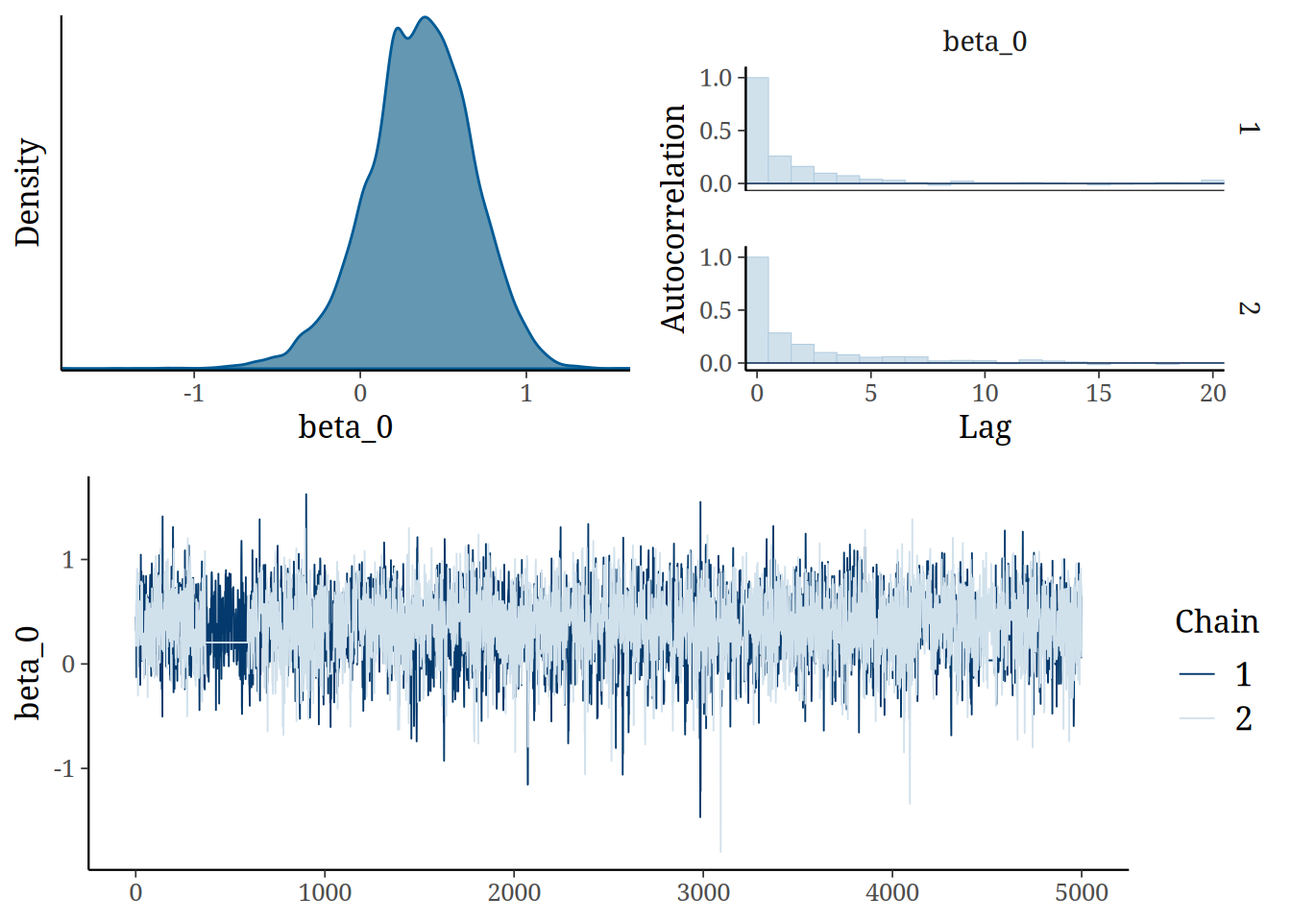
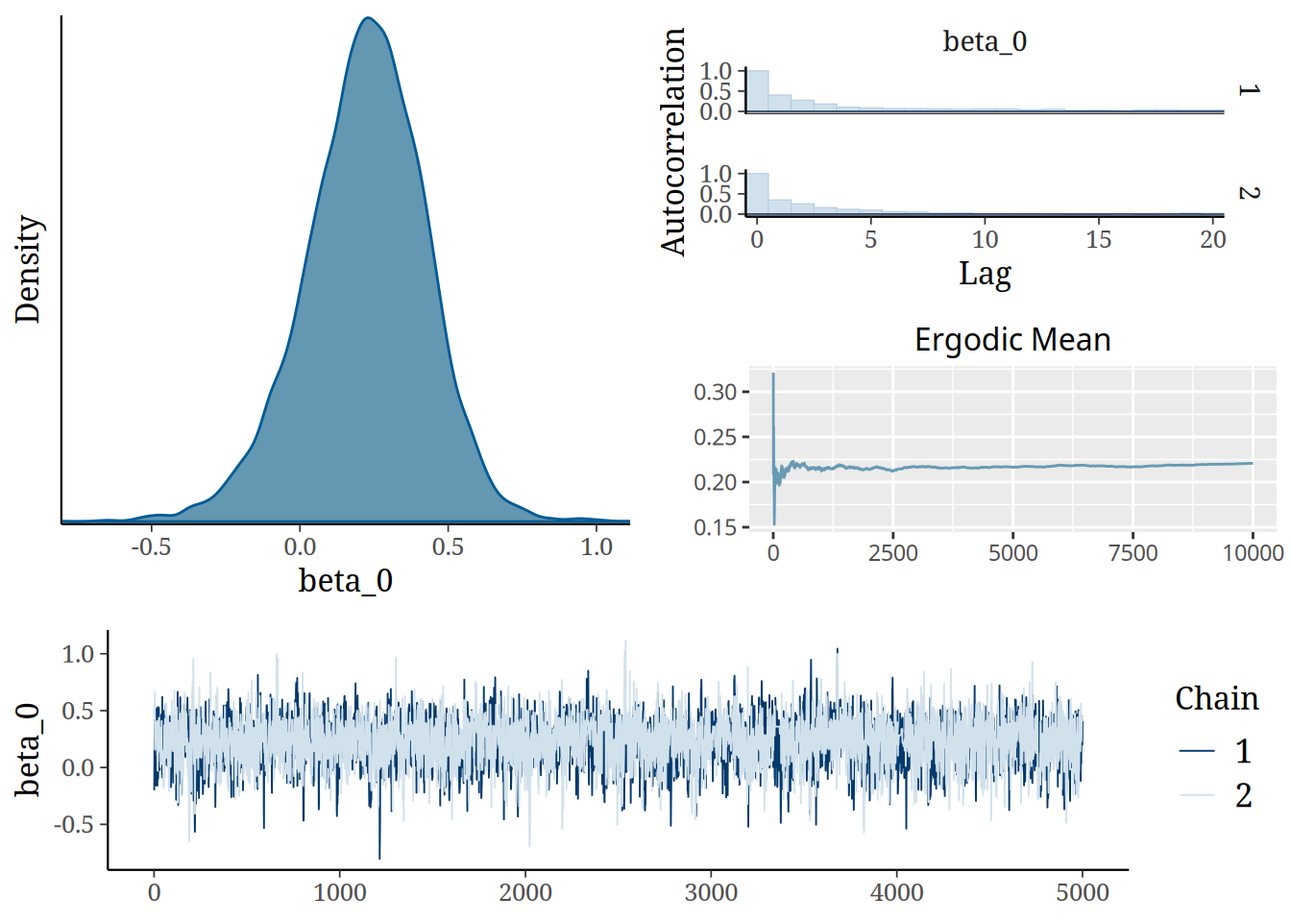
feat: visualizacao de predicao para o campeonato mineiro

diff --git a/models/campeonato_mineiro.html b/models/campeonato_mineiro.html
@@ -95,114 +95,63 @@ pre > code.sourceCode > span > a:first-child::before { text-decoration: underlin
 </header>
 
 <section id="registrando-os-times" class="level2">
-<h2 class="anchored" data-anchor-id="registrando-os-times">Registrando os Times</h2>
+<h2 class="anchored" data-anchor-id="registrando-os-times">Registrando os times</h2>
 <div class="cell">
-<div class="sourceCode cell-code" id="cb1"><pre class="sourceCode r code-with-copy"><code class="sourceCode r"><span id="cb1-1"><a href="#cb1-1" aria-hidden="true" tabindex="-1"></a>team_names <span class="ot">&lt;-</span> <span class="fu">c</span>(<span class="st">"Tombense"</span>, <span class="st">"Uberlândia"</span>, <span class="st">"Villa Nova"</span>, <span class="st">"Cruzeiro"</span>,</span>
-<span id="cb1-2"><a href="#cb1-2" aria-hidden="true" tabindex="-1"></a>                <span class="st">"Athletic"</span>, <span class="st">"Ipatinga"</span>, <span class="st">"Democrata"</span>, <span class="st">"Itabirito"</span>,</span>
+<div class="sourceCode cell-code" id="cb1"><pre class="sourceCode r code-with-copy"><code class="sourceCode r"><span id="cb1-1"><a href="#cb1-1" aria-hidden="true" tabindex="-1"></a>team_names <span class="ot">&lt;-</span> <span class="fu">c</span>(<span class="st">"Tombense"</span>, <span class="st">"Uberlândia"</span>, <span class="st">"Villa Nova-MG"</span>, <span class="st">"Cruzeiro"</span>,</span>
+<span id="cb1-2"><a href="#cb1-2" aria-hidden="true" tabindex="-1"></a>                <span class="st">"Athletic Club"</span>, <span class="st">"Ipatinga"</span>, <span class="st">"Democrata GV"</span>, <span class="st">"Itabirito"</span>,</span>
 <span id="cb1-3"><a href="#cb1-3" aria-hidden="true" tabindex="-1"></a>                <span class="st">"Patrocinense"</span>, <span class="st">"Atlético-MG"</span>, <span class="st">"América-MG"</span>, <span class="st">"Pouso Alegre"</span>)</span></code><button title="Copy to Clipboard" class="code-copy-button"><i class="bi"></i></button></pre></div>
 </div>
 </section>
-<section id="tabela" class="level2">
-<h2 class="anchored" data-anchor-id="tabela">Tabela</h2>
-<div class="tabset-margin-container"></div><div class="panel-tabset">
-<ul class="nav nav-tabs" role="tablist"><li class="nav-item" role="presentation"><a class="nav-link active" id="tabset-1-1-tab" data-bs-toggle="tab" data-bs-target="#tabset-1-1" role="tab" aria-controls="tabset-1-1" aria-selected="true" href="">Rodada 1</a></li><li class="nav-item" role="presentation"><a class="nav-link" id="tabset-1-2-tab" data-bs-toggle="tab" data-bs-target="#tabset-1-2" role="tab" aria-controls="tabset-1-2" aria-selected="false" href="">Rodada 2</a></li><li class="nav-item" role="presentation"><a class="nav-link" id="tabset-1-3-tab" data-bs-toggle="tab" data-bs-target="#tabset-1-3" role="tab" aria-controls="tabset-1-3" aria-selected="false" href="">Rodada 3</a></li><li class="nav-item" role="presentation"><a class="nav-link" id="tabset-1-4-tab" data-bs-toggle="tab" data-bs-target="#tabset-1-4" role="tab" aria-controls="tabset-1-4" aria-selected="false" href="">Rodada 4</a></li><li class="nav-item" role="presentation"><a class="nav-link" id="tabset-1-5-tab" data-bs-toggle="tab" data-bs-target="#tabset-1-5" role="tab" aria-controls="tabset-1-5" aria-selected="false" href="">Rodada 5</a></li><li class="nav-item" role="presentation"><a class="nav-link" id="tabset-1-6-tab" data-bs-toggle="tab" data-bs-target="#tabset-1-6" role="tab" aria-controls="tabset-1-6" aria-selected="false" href="">Rodada 6</a></li><li class="nav-item" role="presentation"><a class="nav-link" id="tabset-1-7-tab" data-bs-toggle="tab" data-bs-target="#tabset-1-7" role="tab" aria-controls="tabset-1-7" aria-selected="false" href="">Rodada 7</a></li><li class="nav-item" role="presentation"><a class="nav-link" id="tabset-1-8-tab" data-bs-toggle="tab" data-bs-target="#tabset-1-8" role="tab" aria-controls="tabset-1-8" aria-selected="false" href="">Rodada 8</a></li></ul>
-<div class="tab-content">
-<div id="tabset-1-1" class="tab-pane active" role="tabpanel" aria-labelledby="tabset-1-1-tab">
-<p>Tombense 2 x 2 Uberlândia</p>
-<p>Villa Nova 1 x 2 Cruzeiro</p>
-<p>Athletic 2 x 1 Ipatinga</p>
-<p>Democrata 1 x 3 Itabirito</p>
-<p>Patrocinense 2 x 1 Atlético-MG</p>
-<p>América-MG 6 x 0 Pouso Alegre</p>
-</div>
-<div id="tabset-1-2" class="tab-pane" role="tabpanel" aria-labelledby="tabset-1-2-tab">
-<p>Cruzeiro 1 x 1 Athletic</p>
-<p>Itabirito 0 x 2 Villa Nova</p>
-<p>Atlético-MG 4 x 0 Democrata</p>
-<p>Pouso Alegre 1 x 2 Tombense</p>
-<p>Ipatinga 1 x 6 América-MG</p>
-<p>Uberlândia 1 x 1 Patrocinense</p>
-</div>
-<div id="tabset-1-3" class="tab-pane" role="tabpanel" aria-labelledby="tabset-1-3-tab">
-<p>Itabirito NA x NA América-MG</p>
-<p>Ipatinga NA x NA Pouso Alegre</p>
-<p>Uberlândia NA x NA Democrata</p>
-<p>Tombense NA x NA Athletic</p>
-<p>Atlético-MG NA x NA Cruzeiro</p>
-<p>Patrocinense NA x NA Villa Nova</p>
-</div>
-<div id="tabset-1-4" class="tab-pane" role="tabpanel" aria-labelledby="tabset-1-4-tab">
-<p>Pouso Alegre NA x NA Itabirito</p>
-<p>Atlético-MG NA x NA Uberlândia</p>
-<p>Democrata NA x NA Tombense</p>
-<p>Villa Nova NA x NA Ipatinga</p>
-<p>Athletic NA x NA Atlético-MG</p>
-<p>Cruzeiro NA x NA Patrocinense</p>
-</div>
-<div id="tabset-1-5" class="tab-pane" role="tabpanel" aria-labelledby="tabset-1-5-tab">
-<p>Pouso Alegre NA x NA Democrata</p>
-<p>Uberlândia NA x NA Itabirito</p>
-<p>Cruzeiro NA x NA América-MG</p>
-<p>Patrocinense NA x NA Ipatinga</p>
-<p>Villa Nova NA x NA Athletic</p>
-<p>Atlético-MG NA x NA Tombense</p>
-</div>
-<div id="tabset-1-6" class="tab-pane" role="tabpanel" aria-labelledby="tabset-1-6-tab">
-<p>Athletic NA x NA Pouso Alegre</p>
-<p>Democrata NA x NA Cruzeiro</p>
-<p>Ipatinga NA x NA Uberlândia</p>
-<p>América-MG NA x NA Villa Nova</p>
-<p>Itabirito NA x NA Atlético-MG</p>
-<p>Tombense NA x NA Patrocinense</p>
-</div>
-<div id="tabset-1-7" class="tab-pane" role="tabpanel" aria-labelledby="tabset-1-7-tab">
-<p>América-MG NA x NA Atlético-MG</p>
-<p>Uberlândia NA x NA Athletic</p>
-<p>Ipatinga NA x NA Democrata</p>
-<p>Itabirito NA x NA Patrocinense</p>
-<p>Villa Nova NA x NA Tombense</p>
-<p>Pouso Alegre NA x NA Cruzeiro</p>
-</div>
-<div id="tabset-1-8" class="tab-pane" role="tabpanel" aria-labelledby="tabset-1-8-tab">
-<p>Democrata NA x NA Villa Nova</p>
-<p>Cruzeiro NA x NA Uberlândia</p>
-<p>Athletic NA x NA Itabirito</p>
-<p>Tombense NA x NA América-MG</p>
-<p>Atlético-MG NA x NA Ipatinga</p>
-<p>Patrocinense NA x NA Pouso Alegre</p>
-</div>
-</div>
+<section id="importando-os-dados-das-partidas" class="level2">
+<h2 class="anchored" data-anchor-id="importando-os-dados-das-partidas">Importando os dados das partidas</h2>
+<div class="cell">
+<div class="sourceCode cell-code" id="cb2"><pre class="sourceCode r code-with-copy"><code class="sourceCode r"><span id="cb2-1"><a href="#cb2-1" aria-hidden="true" tabindex="-1"></a>games <span class="ot">&lt;-</span> <span class="fu">read.csv2</span>(<span class="st">"./camp_mineiro_2024.csv"</span>, <span class="at">sep=</span><span class="st">","</span>)</span>
+<span id="cb2-2"><a href="#cb2-2" aria-hidden="true" tabindex="-1"></a></span>
+<span id="cb2-3"><a href="#cb2-3" aria-hidden="true" tabindex="-1"></a>h <span class="ot">&lt;-</span> <span class="fu">unname</span>(<span class="fu">sapply</span>(games<span class="sc">$</span>h, <span class="cf">function</span>(x) <span class="fu">which</span>(x <span class="sc">==</span> team_names)))</span>
+<span id="cb2-4"><a href="#cb2-4" aria-hidden="true" tabindex="-1"></a>a <span class="ot">&lt;-</span> <span class="fu">unname</span>(<span class="fu">sapply</span>(games<span class="sc">$</span>a, <span class="cf">function</span>(x) <span class="fu">which</span>(x <span class="sc">==</span> team_names)))</span>
+<span id="cb2-5"><a href="#cb2-5" aria-hidden="true" tabindex="-1"></a></span>
+<span id="cb2-6"><a href="#cb2-6" aria-hidden="true" tabindex="-1"></a>games<span class="sc">$</span>h <span class="ot">&lt;-</span> h</span>
+<span id="cb2-7"><a href="#cb2-7" aria-hidden="true" tabindex="-1"></a>games<span class="sc">$</span>a <span class="ot">&lt;-</span> a</span></code><button title="Copy to Clipboard" class="code-copy-button"><i class="bi"></i></button></pre></div>
 </div>
 </section>
 <section id="ajustando-um-modelo-poisson-simples" class="level2">
 <h2 class="anchored" data-anchor-id="ajustando-um-modelo-poisson-simples">Ajustando um Modelo Poisson Simples</h2>
 <div class="cell">
-<div class="sourceCode cell-code" id="cb2"><pre class="sourceCode r code-with-copy"><code class="sourceCode r"><span id="cb2-1"><a href="#cb2-1" aria-hidden="true" tabindex="-1"></a><span class="fu">require</span>(footstan)</span></code><button title="Copy to Clipboard" class="code-copy-button"><i class="bi"></i></button></pre></div>
+<div class="sourceCode cell-code" id="cb3"><pre class="sourceCode r code-with-copy"><code class="sourceCode r"><span id="cb3-1"><a href="#cb3-1" aria-hidden="true" tabindex="-1"></a><span class="fu">require</span>(footstan)</span></code><button title="Copy to Clipboard" class="code-copy-button"><i class="bi"></i></button></pre></div>
 <div class="cell-output cell-output-stderr">
 <pre><code>Loading required package: footstan</code></pre>
 </div>
-<div class="sourceCode cell-code" id="cb4"><pre class="sourceCode r code-with-copy"><code class="sourceCode r"><span id="cb4-1"><a href="#cb4-1" aria-hidden="true" tabindex="-1"></a>poisson_hyperparams <span class="ot">&lt;-</span> <span class="fu">list</span>(</span>
-<span id="cb4-2"><a href="#cb4-2" aria-hidden="true" tabindex="-1"></a>  <span class="at">beta_0_mu =</span> <span class="dv">0</span>,</span>
-<span id="cb4-3"><a href="#cb4-3" aria-hidden="true" tabindex="-1"></a>  <span class="at">beta_0_sd =</span> <span class="dv">10</span>,</span>
-<span id="cb4-4"><a href="#cb4-4" aria-hidden="true" tabindex="-1"></a>  <span class="at">home_mu =</span> <span class="dv">0</span>,</span>
-<span id="cb4-5"><a href="#cb4-5" aria-hidden="true" tabindex="-1"></a>  <span class="at">home_sd =</span> <span class="dv">10</span>,</span>
-<span id="cb4-6"><a href="#cb4-6" aria-hidden="true" tabindex="-1"></a>  <span class="at">att_mu =</span> <span class="dv">0</span>,</span>
-<span id="cb4-7"><a href="#cb4-7" aria-hidden="true" tabindex="-1"></a>  <span class="at">def_mu =</span> <span class="dv">0</span>,</span>
-<span id="cb4-8"><a href="#cb4-8" aria-hidden="true" tabindex="-1"></a>  <span class="at">sd_att_mu =</span> <span class="dv">0</span>,</span>
-<span id="cb4-9"><a href="#cb4-9" aria-hidden="true" tabindex="-1"></a>  <span class="at">sd_att_sig =</span> <span class="fl">2.5</span>,</span>
-<span id="cb4-10"><a href="#cb4-10" aria-hidden="true" tabindex="-1"></a>  <span class="at">sd_def_mu =</span> <span class="dv">0</span>,</span>
-<span id="cb4-11"><a href="#cb4-11" aria-hidden="true" tabindex="-1"></a>  <span class="at">sd_def_sig =</span> <span class="fl">2.5</span></span>
-<span id="cb4-12"><a href="#cb4-12" aria-hidden="true" tabindex="-1"></a>)</span>
-<span id="cb4-13"><a href="#cb4-13" aria-hidden="true" tabindex="-1"></a></span>
-<span id="cb4-14"><a href="#cb4-14" aria-hidden="true" tabindex="-1"></a>games_clean <span class="ot">&lt;-</span> games[<span class="fu">complete.cases</span>(games), ]</span>
-<span id="cb4-15"><a href="#cb4-15" aria-hidden="true" tabindex="-1"></a></span>
-<span id="cb4-16"><a href="#cb4-16" aria-hidden="true" tabindex="-1"></a>fit_poisson <span class="ot">&lt;-</span> <span class="fu">fit_data</span>(games_clean, poisson_hyperparams, <span class="st">"poisson"</span>, <span class="at">iter=</span><span class="dv">10000</span>, <span class="at">chains=</span><span class="dv">2</span>)</span></code><button title="Copy to Clipboard" class="code-copy-button"><i class="bi"></i></button></pre></div>
+<div class="cell-output cell-output-stderr">
+<pre><code>
+Attaching package: 'footstan'</code></pre>
+</div>
+<div class="cell-output cell-output-stderr">
+<pre><code>The following object is masked from 'package:stats':
+
+    predict</code></pre>
+</div>
+<div class="sourceCode cell-code" id="cb7"><pre class="sourceCode r code-with-copy"><code class="sourceCode r"><span id="cb7-1"><a href="#cb7-1" aria-hidden="true" tabindex="-1"></a>poisson_hyperparams <span class="ot">&lt;-</span> <span class="fu">list</span>(</span>
+<span id="cb7-2"><a href="#cb7-2" aria-hidden="true" tabindex="-1"></a>  <span class="at">beta_0_mu =</span> <span class="dv">0</span>,</span>
+<span id="cb7-3"><a href="#cb7-3" aria-hidden="true" tabindex="-1"></a>  <span class="at">beta_0_sd =</span> <span class="dv">10</span>,</span>
+<span id="cb7-4"><a href="#cb7-4" aria-hidden="true" tabindex="-1"></a>  <span class="at">home_mu =</span> <span class="dv">0</span>,</span>
+<span id="cb7-5"><a href="#cb7-5" aria-hidden="true" tabindex="-1"></a>  <span class="at">home_sd =</span> <span class="dv">10</span>,</span>
+<span id="cb7-6"><a href="#cb7-6" aria-hidden="true" tabindex="-1"></a>  <span class="at">att_mu =</span> <span class="dv">0</span>,</span>
+<span id="cb7-7"><a href="#cb7-7" aria-hidden="true" tabindex="-1"></a>  <span class="at">def_mu =</span> <span class="dv">0</span>,</span>
+<span id="cb7-8"><a href="#cb7-8" aria-hidden="true" tabindex="-1"></a>  <span class="at">sd_att_mu =</span> <span class="dv">0</span>,</span>
+<span id="cb7-9"><a href="#cb7-9" aria-hidden="true" tabindex="-1"></a>  <span class="at">sd_att_sig =</span> <span class="fl">2.5</span>,</span>
+<span id="cb7-10"><a href="#cb7-10" aria-hidden="true" tabindex="-1"></a>  <span class="at">sd_def_mu =</span> <span class="dv">0</span>,</span>
+<span id="cb7-11"><a href="#cb7-11" aria-hidden="true" tabindex="-1"></a>  <span class="at">sd_def_sig =</span> <span class="fl">2.5</span></span>
+<span id="cb7-12"><a href="#cb7-12" aria-hidden="true" tabindex="-1"></a>)</span>
+<span id="cb7-13"><a href="#cb7-13" aria-hidden="true" tabindex="-1"></a></span>
+<span id="cb7-14"><a href="#cb7-14" aria-hidden="true" tabindex="-1"></a>games_clean <span class="ot">&lt;-</span> games[<span class="fu">complete.cases</span>(games), ]</span>
+<span id="cb7-15"><a href="#cb7-15" aria-hidden="true" tabindex="-1"></a></span>
+<span id="cb7-16"><a href="#cb7-16" aria-hidden="true" tabindex="-1"></a>fit_poisson <span class="ot">&lt;-</span> <span class="fu">fit_data</span>(games_clean, poisson_hyperparams, <span class="st">"poisson"</span>, <span class="at">iter=</span><span class="dv">10000</span>, <span class="at">chains=</span><span class="dv">2</span>)</span></code><button title="Copy to Clipboard" class="code-copy-button"><i class="bi"></i></button></pre></div>
 <div class="cell-output cell-output-stdout">
 <pre><code>
 SAMPLING FOR MODEL 'poisson' NOW (CHAIN 1).
 Chain 1: 
-Chain 1: Gradient evaluation took 9e-06 seconds
-Chain 1: 1000 transitions using 10 leapfrog steps per transition would take 0.09 seconds.
+Chain 1: Gradient evaluation took 1.7e-05 seconds
+Chain 1: 1000 transitions using 10 leapfrog steps per transition would take 0.17 seconds.
 Chain 1: Adjust your expectations accordingly!
 Chain 1: 
 Chain 1: 
@@ -219,15 +168,15 @@ Chain 1: Iteration: 8000 / 10000 [ 80%]  (Sampling)
 Chain 1: Iteration: 9000 / 10000 [ 90%]  (Sampling)
 Chain 1: Iteration: 10000 / 10000 [100%]  (Sampling)
 Chain 1: 
-Chain 1:  Elapsed Time: 0.362 seconds (Warm-up)
-Chain 1:                0.358 seconds (Sampling)
-Chain 1:                0.72 seconds (Total)
+Chain 1:  Elapsed Time: 0.778 seconds (Warm-up)
+Chain 1:                0.893 seconds (Sampling)
+Chain 1:                1.671 seconds (Total)
 Chain 1: 
 
 SAMPLING FOR MODEL 'poisson' NOW (CHAIN 2).
 Chain 2: 
-Chain 2: Gradient evaluation took 7e-06 seconds
-Chain 2: 1000 transitions using 10 leapfrog steps per transition would take 0.07 seconds.
+Chain 2: Gradient evaluation took 2.5e-05 seconds
+Chain 2: 1000 transitions using 10 leapfrog steps per transition would take 0.25 seconds.
 Chain 2: Adjust your expectations accordingly!
 Chain 2: 
 Chain 2: 
@@ -244,67 +193,118 @@ Chain 2: Iteration: 8000 / 10000 [ 80%]  (Sampling)
 Chain 2: Iteration: 9000 / 10000 [ 90%]  (Sampling)
 Chain 2: Iteration: 10000 / 10000 [100%]  (Sampling)
 Chain 2: 
-Chain 2:  Elapsed Time: 0.347 seconds (Warm-up)
-Chain 2:                0.366 seconds (Sampling)
-Chain 2:                0.713 seconds (Total)
+Chain 2:  Elapsed Time: 1.35 seconds (Warm-up)
+Chain 2:                1.025 seconds (Sampling)
+Chain 2:                2.375 seconds (Total)
 Chain 2: </code></pre>
 </div>
 <div class="cell-output cell-output-stderr">
-<pre><code>Warning: There were 10 divergent transitions after warmup. See
+<pre><code>Warning: There were 2 divergent transitions after warmup. See
 https://mc-stan.org/misc/warnings.html#divergent-transitions-after-warmup
 to find out why this is a problem and how to eliminate them.</code></pre>
 </div>
 <div class="cell-output cell-output-stderr">
 <pre><code>Warning: Examine the pairs() plot to diagnose sampling problems</code></pre>
 </div>
-<div class="cell-output cell-output-stderr">
-<pre><code>Warning: Tail Effective Samples Size (ESS) is too low, indicating posterior variances and tail quantiles may be unreliable.
-Running the chains for more iterations may help. See
-https://mc-stan.org/misc/warnings.html#tail-ess</code></pre>
+</div>
+</section>
+<section id="visualizando-os-parâmetros-ajustados-para-os-semi-finalistas" class="level2">
+<h2 class="anchored" data-anchor-id="visualizando-os-parâmetros-ajustados-para-os-semi-finalistas">Visualizando os parâmetros ajustados para os semi-finalistas</h2>
+<div class="tabset-margin-container"></div><div class="panel-tabset">
+<ul class="nav nav-tabs" role="tablist"><li class="nav-item" role="presentation"><a class="nav-link active" id="tabset-1-1-tab" data-bs-toggle="tab" data-bs-target="#tabset-1-1" role="tab" aria-controls="tabset-1-1" aria-selected="true" href="">Tombense</a></li><li class="nav-item" role="presentation"><a class="nav-link" id="tabset-1-2-tab" data-bs-toggle="tab" data-bs-target="#tabset-1-2" role="tab" aria-controls="tabset-1-2" aria-selected="false" href="">Cruzeiro</a></li><li class="nav-item" role="presentation"><a class="nav-link" id="tabset-1-3-tab" data-bs-toggle="tab" data-bs-target="#tabset-1-3" role="tab" aria-controls="tabset-1-3" aria-selected="false" href="">América-MG</a></li><li class="nav-item" role="presentation"><a class="nav-link" id="tabset-1-4-tab" data-bs-toggle="tab" data-bs-target="#tabset-1-4" role="tab" aria-controls="tabset-1-4" aria-selected="false" href="">Atlético-MG</a></li></ul>
+<div class="tab-content">
+<div id="tabset-1-1" class="tab-pane active" role="tabpanel" aria-labelledby="tabset-1-1-tab">
+<p><img src="campeonato_mineiro_files/figure-html/unnamed-chunk-4-1.png" class="img-fluid" width="672"><img src="campeonato_mineiro_files/figure-html/unnamed-chunk-4-2.png" class="img-fluid" width="672"></p>
+</div>
+<div id="tabset-1-2" class="tab-pane" role="tabpanel" aria-labelledby="tabset-1-2-tab">
+<p><img src="campeonato_mineiro_files/figure-html/unnamed-chunk-4-3.png" class="img-fluid" width="672"><img src="campeonato_mineiro_files/figure-html/unnamed-chunk-4-4.png" class="img-fluid" width="672"></p>
+</div>
+<div id="tabset-1-3" class="tab-pane" role="tabpanel" aria-labelledby="tabset-1-3-tab">
+<p><img src="campeonato_mineiro_files/figure-html/unnamed-chunk-4-5.png" class="img-fluid" width="672"><img src="campeonato_mineiro_files/figure-html/unnamed-chunk-4-6.png" class="img-fluid" width="672"></p>
+</div>
+<div id="tabset-1-4" class="tab-pane" role="tabpanel" aria-labelledby="tabset-1-4-tab">
+<p><img src="campeonato_mineiro_files/figure-html/unnamed-chunk-4-7.png" class="img-fluid" width="672"><img src="campeonato_mineiro_files/figure-html/unnamed-chunk-4-8.png" class="img-fluid" width="672"></p>
 </div>
 </div>
-<section id="visualizando-os-parâmetros-ajustados" class="level3">
-<h3 class="anchored" data-anchor-id="visualizando-os-parâmetros-ajustados">Visualizando os parâmetros ajustados</h3>
+</div>
+</section>
+<section id="prevendo-os-resultados-das-semi-finais" class="level2">
+<h2 class="anchored" data-anchor-id="prevendo-os-resultados-das-semi-finais">Prevendo os Resultados das Semi-finais</h2>
 <div class="cell">
-<div class="cell-output-display">
-<p><img src="campeonato_mineiro_files/figure-html/unnamed-chunk-5-1.png" class="img-fluid" width="672"></p>
+<div class="sourceCode cell-code" id="cb11"><pre class="sourceCode r code-with-copy"><code class="sourceCode r"><span id="cb11-1"><a href="#cb11-1" aria-hidden="true" tabindex="-1"></a>h <span class="ot">&lt;-</span> <span class="fu">c</span>(<span class="dv">1</span>, <span class="dv">10</span>, <span class="dv">4</span>, <span class="dv">11</span>)</span>
+<span id="cb11-2"><a href="#cb11-2" aria-hidden="true" tabindex="-1"></a>a <span class="ot">&lt;-</span> <span class="fu">c</span>(<span class="dv">4</span>, <span class="dv">11</span>, <span class="dv">1</span>, <span class="dv">10</span>)</span>
+<span id="cb11-3"><a href="#cb11-3" aria-hidden="true" tabindex="-1"></a></span>
+<span id="cb11-4"><a href="#cb11-4" aria-hidden="true" tabindex="-1"></a>new_games <span class="ot">&lt;-</span> <span class="fu">data.frame</span>(<span class="at">h =</span> h, <span class="at">a =</span> a)</span>
+<span id="cb11-5"><a href="#cb11-5" aria-hidden="true" tabindex="-1"></a>predictions <span class="ot">&lt;-</span> <span class="fu">predict</span>(fit_poisson, new_games)</span></code><button title="Copy to Clipboard" class="code-copy-button"><i class="bi"></i></button></pre></div>
 </div>
-<div class="cell-output-display">
-<p><img src="campeonato_mineiro_files/figure-html/unnamed-chunk-5-2.png" class="img-fluid" width="672"></p>
-</div>
-<div class="cell-output-display">
-<p><img src="campeonato_mineiro_files/figure-html/unnamed-chunk-5-3.png" class="img-fluid" width="672"></p>
-</div>
-<div class="cell-output-display">
-<p><img src="campeonato_mineiro_files/figure-html/unnamed-chunk-5-4.png" class="img-fluid" width="672"></p>
-</div>
-</div>
-</section>
-</section>
-<section id="prevendo-o-resultado-para-o-clássico" class="level2">
-<h2 class="anchored" data-anchor-id="prevendo-o-resultado-para-o-clássico">Prevendo o Resultado para o Clássico</h2>
-<section id="efeitos-do-cruzeiro" class="level3">
-<h3 class="anchored" data-anchor-id="efeitos-do-cruzeiro">Efeitos do Cruzeiro</h3>
+<p>A função <code>footstan::predict</code> retorna uma lista com todos os resultados previstos pelo stan para cada jogo. Podemos então utilizar a função: <code>footstan::prediction_proportions</code> para calcular as proporções de cada um dos resultados e obter-se uma predição mais simples de se interpretar</p>
 <div class="cell">
-<div class="cell-output-display">
-<p><img src="campeonato_mineiro_files/figure-html/unnamed-chunk-6-1.png" class="img-fluid" width="672"></p>
+<div class="sourceCode cell-code" id="cb12"><pre class="sourceCode r code-with-copy"><code class="sourceCode r"><span id="cb12-1"><a href="#cb12-1" aria-hidden="true" tabindex="-1"></a>proportions <span class="ot">&lt;-</span> <span class="fu">prediction_proportions</span>(predictions)</span>
+<span id="cb12-2"><a href="#cb12-2" aria-hidden="true" tabindex="-1"></a></span>
+<span id="cb12-3"><a href="#cb12-3" aria-hidden="true" tabindex="-1"></a><span class="co"># Traduzindo os nomes</span></span>
+<span id="cb12-4"><a href="#cb12-4" aria-hidden="true" tabindex="-1"></a>proportions<span class="sc">$</span>h <span class="ot">&lt;-</span> team_names[proportions<span class="sc">$</span>h]</span>
+<span id="cb12-5"><a href="#cb12-5" aria-hidden="true" tabindex="-1"></a>proportions<span class="sc">$</span>a <span class="ot">&lt;-</span> team_names[proportions<span class="sc">$</span>a]</span>
+<span id="cb12-6"><a href="#cb12-6" aria-hidden="true" tabindex="-1"></a></span>
+<span id="cb12-7"><a href="#cb12-7" aria-hidden="true" tabindex="-1"></a>proportions</span></code><button title="Copy to Clipboard" class="code-copy-button"><i class="bi"></i></button></pre></div>
+<div class="cell-output cell-output-stdout">
+<pre><code>            h           a home_win   draw home_lost
+1    Tombense    Cruzeiro   0.3563 0.2844    0.3593
+2 Atlético-MG  América-MG   0.2699 0.3035    0.4266
+3    Cruzeiro    Tombense   0.4272 0.2753    0.2975
+4  América-MG Atlético-MG   0.4825 0.2912    0.2263</code></pre>
 </div>
-<div class="cell-output-display">
-<p><img src="campeonato_mineiro_files/figure-html/unnamed-chunk-6-2.png" class="img-fluid" width="672"></p>
 </div>
-</div>
-</section>
-<section id="efeitos-do-atlético-mg" class="level3">
-<h3 class="anchored" data-anchor-id="efeitos-do-atlético-mg">Efeitos do Atlético-MG</h3>
 <div class="cell">
 <div class="cell-output-display">
 <p><img src="campeonato_mineiro_files/figure-html/unnamed-chunk-7-1.png" class="img-fluid" width="672"></p>
 </div>
+</div>
+<p>Uma estatística muito utilizada por casas de apostas é o número de gols em um jogo, podemos utilizar a função <code>footstan::goals_histogram</code> para visualizarmos o número de gols preditos em forma de histograma: ### Jogo Tombense x Cruzeiro</p>
+<div class="cell">
+<div class="sourceCode cell-code" id="cb14"><pre class="sourceCode r code-with-copy"><code class="sourceCode r"><span id="cb14-1"><a href="#cb14-1" aria-hidden="true" tabindex="-1"></a><span class="fu">goals_histogram</span>(predictions, <span class="dv">1</span>, <span class="at">team =</span> <span class="st">"home"</span>, <span class="at">home_team =</span> <span class="st">"Tombense"</span>, <span class="at">fill_color=</span><span class="st">"#e91b25"</span>)</span></code><button title="Copy to Clipboard" class="code-copy-button"><i class="bi"></i></button></pre></div>
 <div class="cell-output-display">
-<p><img src="campeonato_mineiro_files/figure-html/unnamed-chunk-7-2.png" class="img-fluid" width="672"></p>
+<p><img src="campeonato_mineiro_files/figure-html/unnamed-chunk-8-1.png" class="img-fluid" width="672"></p>
+</div>
+</div>
+<section id="jogo-atlético-mg-x-américa" class="level3">
+<h3 class="anchored" data-anchor-id="jogo-atlético-mg-x-américa">Jogo Atlético-MG x América</h3>
+<div class="cell">
+<div class="sourceCode cell-code" id="cb15"><pre class="sourceCode r code-with-copy"><code class="sourceCode r"><span id="cb15-1"><a href="#cb15-1" aria-hidden="true" tabindex="-1"></a><span class="fu">goals_histogram</span>(predictions, <span class="at">game =</span> <span class="dv">4</span>, <span class="at">team=</span><span class="st">"home"</span>, <span class="at">home_team =</span> <span class="st">"América-MG"</span>,</span>
+<span id="cb15-2"><a href="#cb15-2" aria-hidden="true" tabindex="-1"></a>                <span class="at">away_team =</span> <span class="st">"Atlético-MG"</span>, <span class="at">fill_color =</span> <span class="st">"#82cb79"</span>)</span></code><button title="Copy to Clipboard" class="code-copy-button"><i class="bi"></i></button></pre></div>
+<div class="cell-output-display">
+<p><img src="campeonato_mineiro_files/figure-html/unnamed-chunk-9-1.png" class="img-fluid" width="672"></p>
 </div>
 </div>
 </section>
+</section>
+<section id="comparando-as-previsões-entre-modelos" class="level2">
+<h2 class="anchored" data-anchor-id="comparando-as-previsões-entre-modelos">Comparando as previsões entre modelos</h2>
+<div class="tabset-margin-container"></div><div class="panel-tabset">
+<ul class="nav nav-tabs" role="tablist"><li class="nav-item" role="presentation"><a class="nav-link active" id="tabset-2-1-tab" data-bs-toggle="tab" data-bs-target="#tabset-2-1" role="tab" aria-controls="tabset-2-1" aria-selected="true" href="">Poisson Simlpes</a></li><li class="nav-item" role="presentation"><a class="nav-link" id="tabset-2-2-tab" data-bs-toggle="tab" data-bs-target="#tabset-2-2" role="tab" aria-controls="tabset-2-2" aria-selected="false" href="">Binomial Negativa</a></li><li class="nav-item" role="presentation"><a class="nav-link" id="tabset-2-3-tab" data-bs-toggle="tab" data-bs-target="#tabset-2-3" role="tab" aria-controls="tabset-2-3" aria-selected="false" href="">Poisson Inflada</a></li></ul>
+<div class="tab-content">
+<div id="tabset-2-1" class="tab-pane active" role="tabpanel" aria-labelledby="tabset-2-1-tab">
+<div class="cell">
+<div class="cell-output-display">
+<p><img src="campeonato_mineiro_files/figure-html/unnamed-chunk-10-1.png" class="img-fluid" width="672"></p>
+</div>
+</div>
+</div>
+<div id="tabset-2-2" class="tab-pane" role="tabpanel" aria-labelledby="tabset-2-2-tab">
+<div class="cell">
+<div class="cell-output-display">
+<p><img src="campeonato_mineiro_files/figure-html/unnamed-chunk-11-1.png" class="img-fluid" width="672"></p>
+</div>
+</div>
+</div>
+<div id="tabset-2-3" class="tab-pane" role="tabpanel" aria-labelledby="tabset-2-3-tab">
+<div class="cell">
+<div class="cell-output-display">
+<p><img src="campeonato_mineiro_files/figure-html/unnamed-chunk-12-1.png" class="img-fluid" width="672"></p>
+</div>
+</div>
+</div>
+</div>
+</div>
 </section>
 
 </main>
